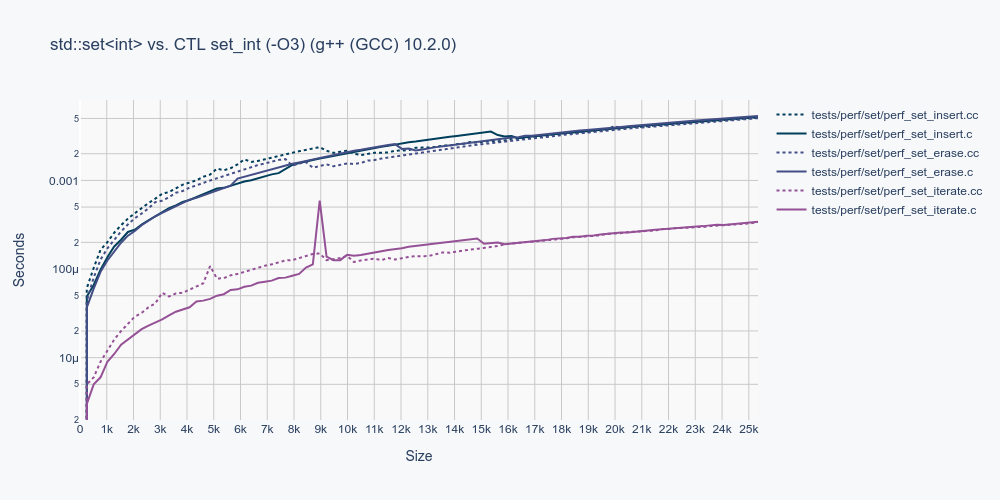
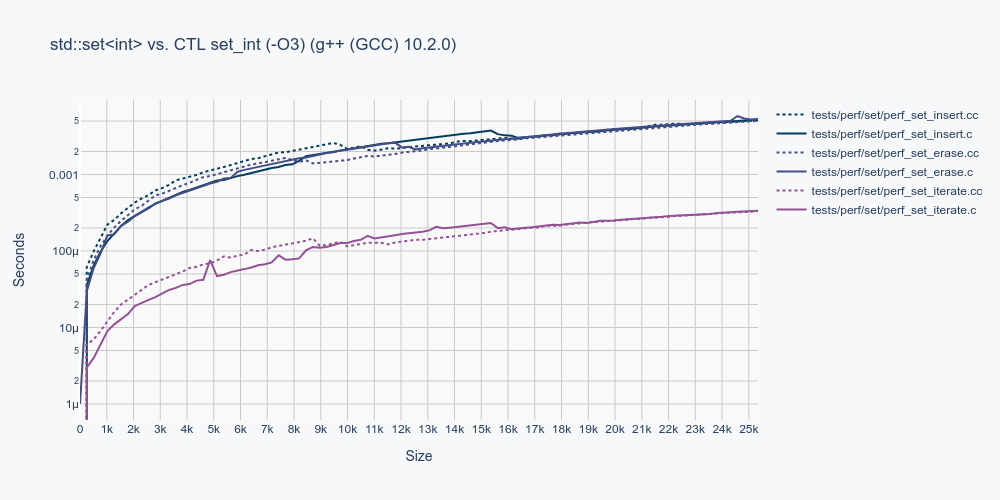
saturated fix

Changed region(s): [[0.031, 0.21, 0.775, 0.81]]

diff --git a/ctl/ust.h b/ctl/ust.h
@@ -12,8 +12,6 @@
 #define B JOIN(A, node)
 #define I JOIN(A, it)
 
-#define LAST_PRIME (24607243)
-
 typedef struct B
 {
     T key;
@@ -187,7 +185,7 @@ JOIN(A, swap)(A* self, A* other)
 }
 
 static inline size_t
-JOIN(A, closest_prime)(size_t number)
+JOIN(A, closest_prime)(size_t number, int* saturated)
 {
     static size_t primes[] = {
         2, 3, 5, 7, 11, 13, 17, 19, 23, 29, 31, 37, 41, 43, 47, 53, 59, 61, 67, 71, 73, 79, 83, 89, 97, 
@@ -201,7 +199,7 @@ JOIN(A, closest_prime)(size_t number)
         480881, 520241, 562841, 608903, 658753, 712697, 771049, 834181, 902483, 976369, 1056323, 1142821, 1236397, 1337629,
         1447153, 1565659, 1693859, 1832561, 1982627, 2144977, 2320627, 2510653, 2716249, 2938679, 3179303, 3439651, 3721303,
         4026031, 4355707, 4712381, 5098259, 5515729, 5967347, 6456007, 6984629, 7556579, 8175383, 8844859, 9569143, 10352717,
-        11200489, 12117689, 13109983, 14183539, 15345007, 16601593, 17961079, 19431899, 21023161, 22744717, LAST_PRIME
+        11200489, 12117689, 13109983, 14183539, 15345007, 16601593, 17961079, 19431899, 21023161, 22744717, 24607243
     };
     size_t min = primes[0];
     if(number < min)
@@ -214,7 +212,9 @@ JOIN(A, closest_prime)(size_t number)
         if(number >= a && number <= b)
             return number == a ? a : b;
     }
-    return LAST_PRIME;
+    if(saturated)
+        *saturated = 1;
+    return primes[size - 1];
 }
 
 static inline B*
@@ -278,15 +278,13 @@ JOIN(A, reserve)(A* self, size_t desired_count)
             JOIN(A, rehash)(self, desired_count);
         else
         {
-            size_t bucket_count = JOIN(A, closest_prime)(desired_count);
+            size_t bucket_count = JOIN(A, closest_prime)(desired_count, &self->saturated);
             B** temp = (B**) calloc(bucket_count, sizeof(B*));
             for(size_t i = 0; i < self->bucket_count; i++)
                 temp[i] = self->bucket[i];
             free(self->bucket);
             self->bucket = temp;
             self->bucket_count = bucket_count;
-            if(bucket_count == LAST_PRIME)
-                self->saturated = 1;
         }
     }
 }
@@ -431,5 +429,3 @@ JOIN(A, copy)(A* self)
 #undef A
 #undef B
 #undef I
-
-#undef LAST_PRIME
